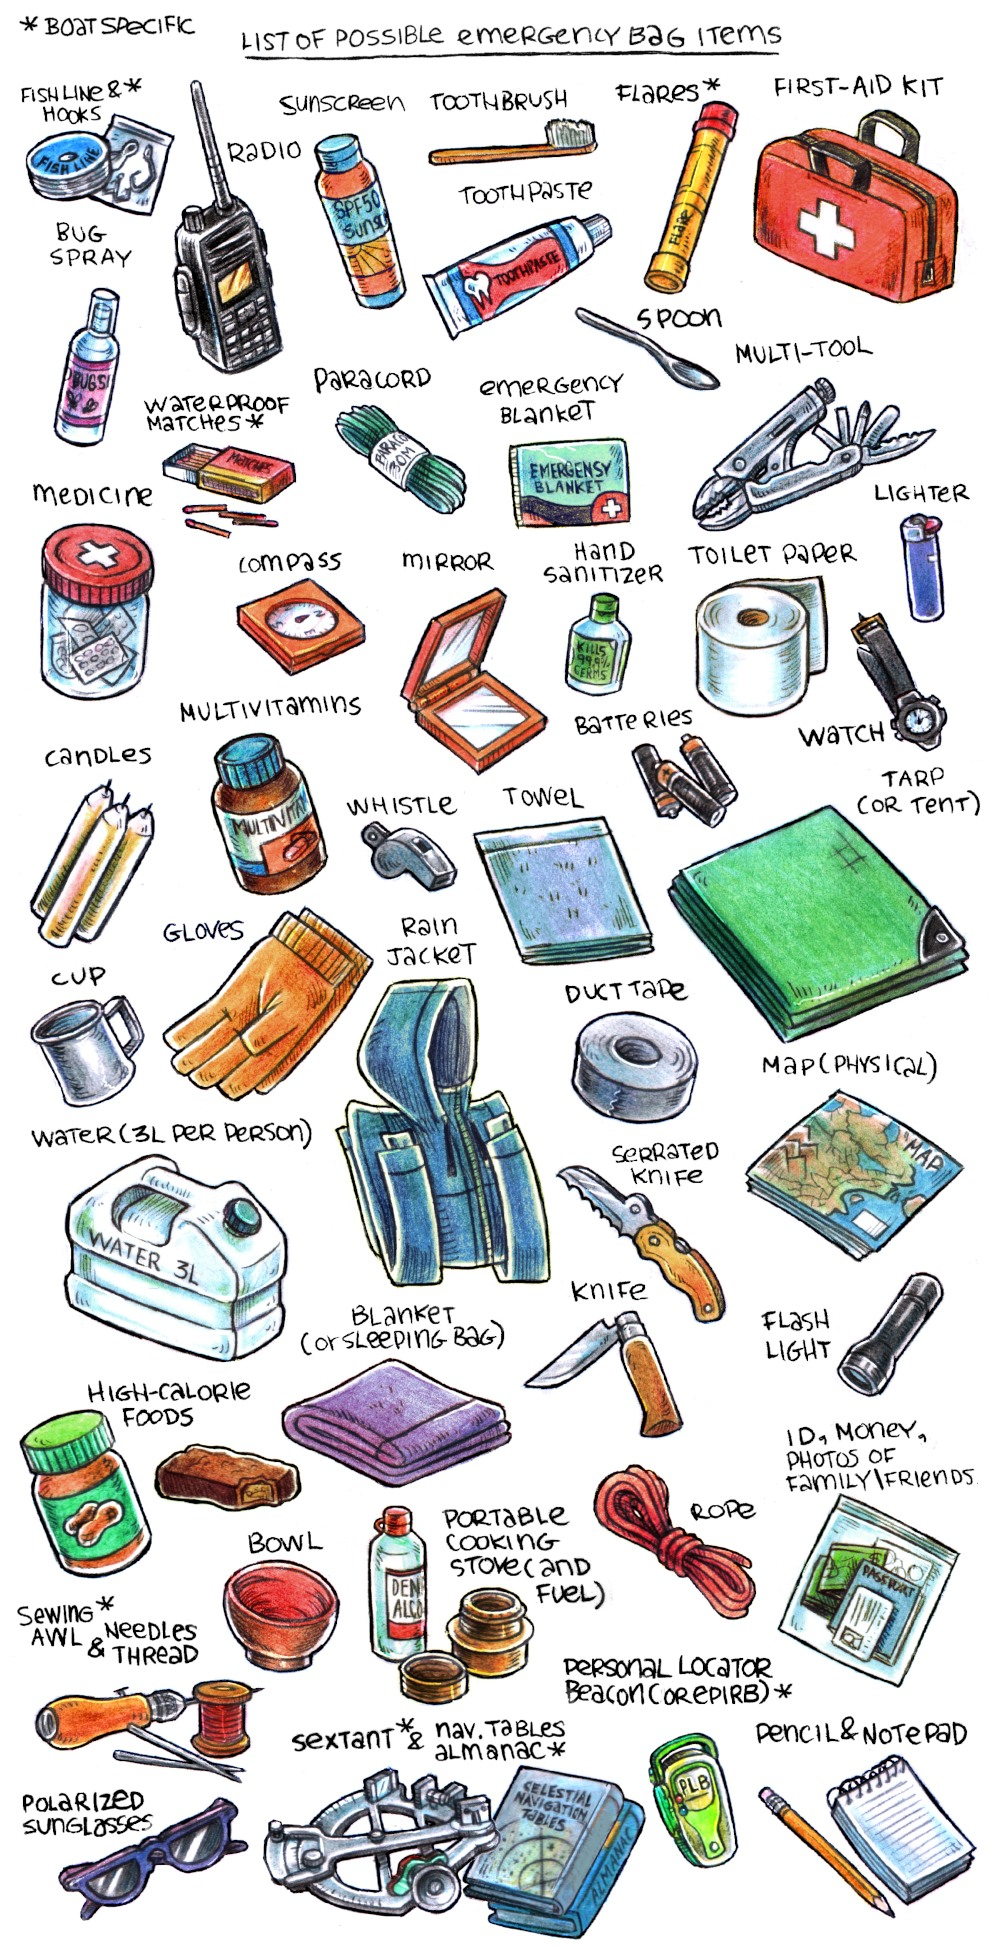
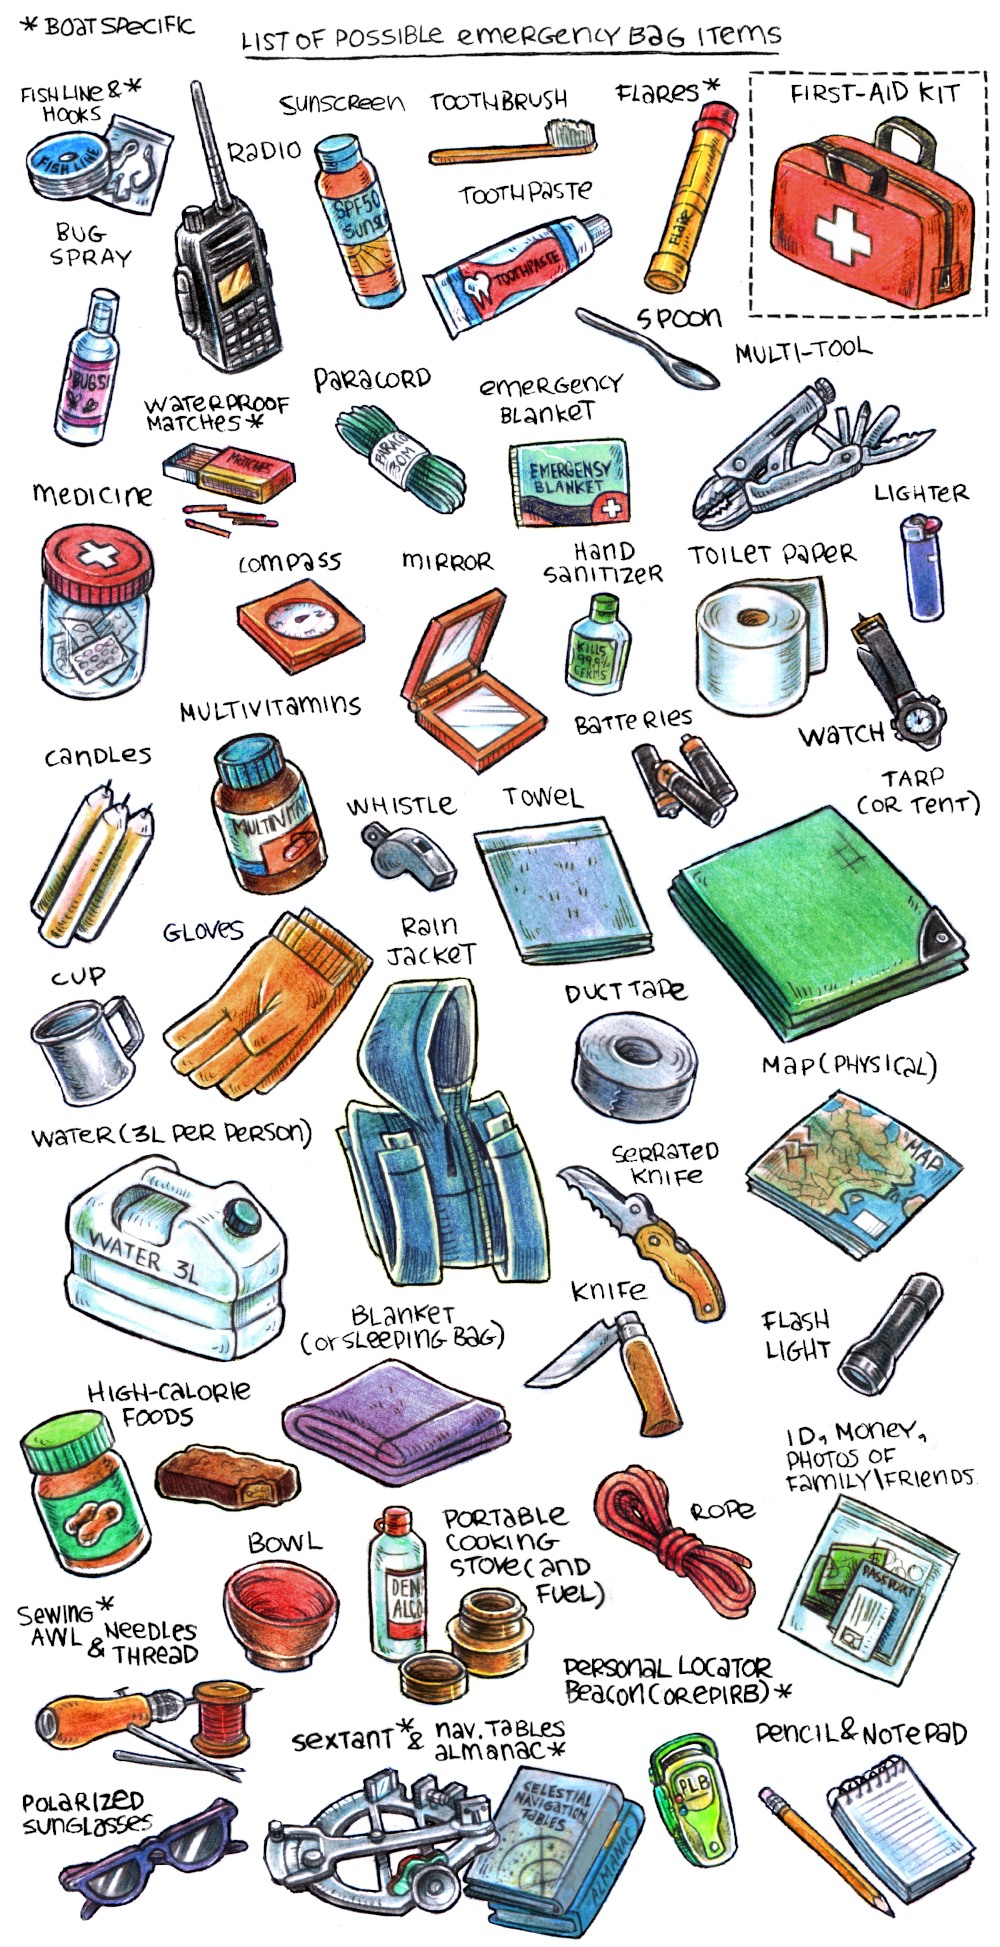
*

Changed region(s): [[0.744, 0.0308, 0.992, 0.1849]]

diff --git a/site/emergency_bag.html b/site/emergency_bag.html
@@ -24,17 +24,21 @@
         <ul>
             <li><a href="https://100r.co/site/ditch_bag.html" target="_blank">Abandon Ship Bag</a></li>
             <li><a href="https://archive.org/details/disaster-preparedness-tokyo/" target="_blank">Bosai Tokyo</a></li>
+            <li><a href="../site/first_aid_kit.html" target="_blank">First-Aid Kit</a></li>
         </ul>
     </nav>
     <div id='wrap'>
         <img src='../media/content/emergency_bag_02.jpg' loading ='lazy'>
-        <a style='width: 30%;height: 5%;top: 0%;left: 43%;' href="https://100r.co/site/ditch_bag.html" target="_blank"><span>Abandon Ship Bag</span></a>
+        <a style='width: 30%;height: 10%;top: 1%;left: 43%;' href="https://100r.co/site/ditch_bag.html" target="_blank"><span>Abandon Ship Bag</span></a>
+    </div>
         <p class='noprint'>An emergency bag, or abandon ship bag, contains emergency supplies for when it is necessary to leave the home/vessel in a hurry in the event of a disaster.<br>The bag ought to contain the minimum essentials. What is essential varies per person, and so it is important to pack what you need yourself, considering each item carefully, instead of following a list.</p>
         <img src='../media/content/emergency_bag_05.jpg' alt='a puffin with a duffel bag talking with a rabbit carrying a hiking backpack. The puffin is talking about a sailboat, the rabbit about a house on land' loading ='lazy'>
         <p>Plan for a minimum of 3 days' worth of supplies.<br>How long you need to plan for depends on where you live, if there are evacuation centers nearby, or other dependable places where it is possible to re-supply. (On a boat, planning for longer is necessary).</p>
+    <div id='wrap'>
+        <img src='../media/content/emergency_bag.jpg' alt='drawings of examples of items that sometimes come in an emergency bags: Radio, sextant, navigation tables(for sextant), current almanac(for sextant), pencil, notepad, stitching awl(and or) needle and thread, polarized sunglasses, flares, fish line and hooks, watch, personal location beacon (and or epirb), sunscreen, toothbrush, toothpaste, first-aid kit, spoon, multi-tool, bug spray, waterproof matches, paracord, emergency blanket, toilet paper, lighter, medicine, compass, mirror, hand sanitizer(or soap), batteries, tarp(or tent), multivitamins, candles, towel, whistle, gloves, rain jacket, duct tape, cup, water(3L per person), map(physical), blanket(or sleeping bag), knife, serrated knife, flashlight, rope, high-calorie foods, bowl, portable cooking stove(and fuel), ID, money, photos of family/friends.' loading ='lazy'>
+        <a style='width: 25%;height: 14%;top: 3%;left: 75%;' href="../site/first_aid_kit.html"><span>First-aid kit</span></a>
+        <p class='noprint'>Radio, sextant, navigation tables(for sextant), current almanac(for sextant), pencil, notepad, stitching awl(and or) needle and thread, polarized sunglasses, flares, fish line and hooks, watch, personal location beacon (and or epirb), sunscreen, toothbrush, toothpaste, first-aid kit, spoon, multi-tool, bug spray, waterproof matches, paracord, emergency blanket, toilet paper, lighter, medicine, compass, mirror, hand sanitizer(or soap), batteries, tarp(or tent), multivitamins, candles, towel, whistle, gloves, rain jacket, duct tape, cup, water(3L per person), map(physical), blanket(or sleeping bag), knife, serrated knife, flashlight, rope, high-calorie foods, bowl, portable cooking stove(and fuel), ID, money, photos of family/friends.</p>
     </div>
-    <img src='../media/content/emergency_bag.jpg' alt='drawings of examples of items that sometimes come in an emergency bags: Radio, sextant, navigation tables(for sextant), current almanac(for sextant), pencil, notepad, stitching awl(and or) needle and thread, polarized sunglasses, flares, fish line and hooks, watch, personal location beacon (and or epirb), sunscreen, toothbrush, toothpaste, first-aid kit, spoon, multi-tool, bug spray, waterproof matches, paracord, emergency blanket, toilet paper, lighter, medicine, compass, mirror, hand sanitizer(or soap), batteries, tarp(or tent), multivitamins, candles, towel, whistle, gloves, rain jacket, duct tape, cup, water(3L per person), map(physical), blanket(or sleeping bag), knife, serrated knife, flashlight, rope, high-calorie foods, bowl, portable cooking stove(and fuel), ID, money, photos of family/friends.' loading ='lazy'>
-    <p class='noprint'>Radio, sextant, navigation tables(for sextant), current almanac(for sextant), pencil, notepad, stitching awl(and or) needle and thread, polarized sunglasses, flares, fish line and hooks, watch, personal location beacon (and or epirb), sunscreen, toothbrush, toothpaste, first-aid kit, spoon, multi-tool, bug spray, waterproof matches, paracord, emergency blanket, toilet paper, lighter, medicine, compass, mirror, hand sanitizer(or soap), batteries, tarp(or tent), multivitamins, candles, towel, whistle, gloves, rain jacket, duct tape, cup, water(3L per person), map(physical), blanket(or sleeping bag), knife, serrated knife, flashlight, rope, high-calorie foods, bowl, portable cooking stove(and fuel), ID, money, photos of family/friends.</p>
     <img src='../media/content/emergency_bag_07.jpg' loading ='lazy'>
     <p class='noprint'>Some items, like a portable cooking stove, or a bucket toilet, usually shared by a group of people, ought to be carried in additional bags by those in the group who can take on more weight safely.</p>
     <img src='../media/content/emergency_bag_03.jpg' alt='two images, one showing mountains on land, the other a sailboat on the water' loading ='lazy'>

diff --git a/site/first_aid_kit.html b/site/first_aid_kit.html
@@ -1,0 +1,51 @@
+<!DOCTYPE html>
+<html lang='en'>
+<head>
+  <link rel="stylesheet" href="../links/main.css">
+  <meta charset='utf-8'>
+  <meta name='author' content='Rek Bell'>
+  <meta name='description' content='Rabbit Waves'/>
+  <meta name='keywords' content='worldbuilding, travel, sailing'/>
+  <meta name='license' content='name=BY-NC-SA(4.0), url=https://creativecommons.org/licenses/by-nc-sa/4.0/'/>
+  <meta name='thumbnail' content='https://rabbitwaves/media/services/thumbnail.jpg' />
+  <meta name='viewport' content='width=device-width, initial-scale=1.0'>
+  <link rel='alternate'  type='application/rss+xml' title='Rabbit Waves' href='links/rss.xml' />
+  <link rel='icon' type='image/x-icon' href='media/services/favicon.ico'>
+  <link rel='me' href='https://merveilles.town/@rek'/>
+  <title>Rabbit Waves</title>
+</head>
+<body>
+<header>
+    <a href="../index.html"><img src='../media/interface/title.png' loading='lazy' alt='Rabbit Waves' title='Return to Rabbit Waves slash page' aria-label='Homepage' class='title'></a>
+    <h1>First-aid kit</h1>
+</header>
+<main>
+    <img src='../media/content/first_aid_01.jpg' alt=''>
+    <p class='noprint'>Learn everything you can about fisrt-aid. Knowing what to do in the event of severe bleeding, choking, or severe allergic reaction could save a life.</p>
+    <img src='../media/content/first_aid_02.jpg' alt=''>
+    <p class='noprint'>It may not be possible for EMS personnel to come to assist you in an emergency. You may need to contact a doctor and request advice on providing care, even if it is outside of your training. Document the doctor’s orders carefully.</p>
+    <img src='../media/content/first_aid_06.jpg' alt=''>
+    <p class='noprint'>You should prepare the following information and present it to the doctor:<br>1) Routine information about the location.<br>2) Routine information about the person.<br>3) Details of the illness/injury.<br>4) Care rendered and the person’s response to that care.</p>
+    <img src='../media/content/first_aid_03.jpg' alt=''>
+    <p class='noprint'>Clearly mark the first-aid kit with a red cross<, and make sure those sharing the space with you know where it is. Keep a list inside of the items you use, and be sure to top off the kit every year or so.</p>
+    <img src='../media/content/first_aid_kit.jpg' alt='drawings of examples of items that basic first aid kits ought to contain: Sterile gauze pads, Medical tape, Roller bandages, Adhesive bandages, Scissors, Tweezers, Safety pins, Instant ice packs, Surgical or examination gloves, Flashlight, Antiseptic wipes, Pencil (and sharpie) and pad, Emergency blanket, Eye patch, Thermometer, and a first aid manual.' loading="lazy">
+    <p class='noprint'>Sterile gauze pads (dressings) in small and large squares to place over wounds, Medical tape, Roller and triangular bandages to hold dressings in place or to make an arm sling, Adhesive bandages in assorted sizes, Scissors, Tweezers, Safety pins, Instant ice packs, Disposable non-latex gloves(such as surgical or examination gloves), Flashlight(with extra batteries in a separate bag), Antiseptic wipes or soap, Pencil (and sharpie) and pad, Emergency blanket, Eye patch, Thermometer, and a first aid manual.</p>
+    <img src='../media/content/first_aid_04.jpg' alt=''>
+    <p class='noprint'>Always read about a medicine before using it. If administering medicine to another person, ask about their allergies, and past medical history, last oral intake etc. Some medicines can cause severe allergic reactions, or may interact with other medicine.</p>
+    <img src='../media/content/first_aid_05.jpg' alt=''>
+    <p class='noprint'>Never administer anything to anyone without their consent.</p>
+    <img src='../media/content/medicine_kit.jpg' alt='drawings of examples of items that basic medicine kits ought to contain: Ibuprofen, Aspirin, Antihistamines, Seasickness meds, Ear drops, Eye wash, Bug spray, Hand sanitizer, Topical anesthetic, Azithromycin, Acetaminophen, Sunscreen (SPF 30), Aloe vera gel with lidocaine, Bacitracin (Topical ointment), Hydrogen peroxide, and anti-diarrheal.' loading="lazy">
+    <p class='noprint'>Ibuprofen, Aspirin, Antihistamines, Seasickness meds, Ear drops, Eye wash, Bug spray, Hand sanitizer, Topical anesthetic, Azithromycin, Acetaminophen, Sunscreen (SPF 30), Aloe vera gel with lidocaine, Bacitracin (Topical ointment), Hydrogen peroxide, and anti-diarrheal.</p>
+    <img src='../media/content/addon_kit.jpg' alt='drawings of useful add ons for an advanced first aid kit: Hot water bottle, Staple gun, Epinephrine, Tourniquet, Multitool, Compression bandage, Reinforced sterile skin closures, CPR pocket mask, Povidone iodine surgical scrubs, Sterile sutures thread with needle, and Emergency dental kit' loading="lazy">
+    <p class='noprint'>Hot water bottle, Staple gun, Epinephrine, Tourniquet, Multitool, Compression bandage, Reinforced sterile skin closures, CPR pocket mask, Povidone iodine surgical scrubs, Sterile sutures thread with needle, and Emergency dental kit.</p>
+</main>
+<footer>
+    <div id='wrapfooter'>
+      <img src='../media/interface/footer.jpg' loading='lazy' title='About| hundredrabbits | © 2025 BY-NC-SA 4.0'>
+      <a class='hundredrabbits' href="https://100r.co" title='Link to 100r.co website' target="_blank"></a>
+      <a class='license' href="https://github.com/rekkabell/rabbitwaves" title='Link to Github license page' target="_blank"></a>
+      <a class='about' href="about.html" title='Link to about page'></a>
+    </div>
+</footer>
+</body>
+</html>
